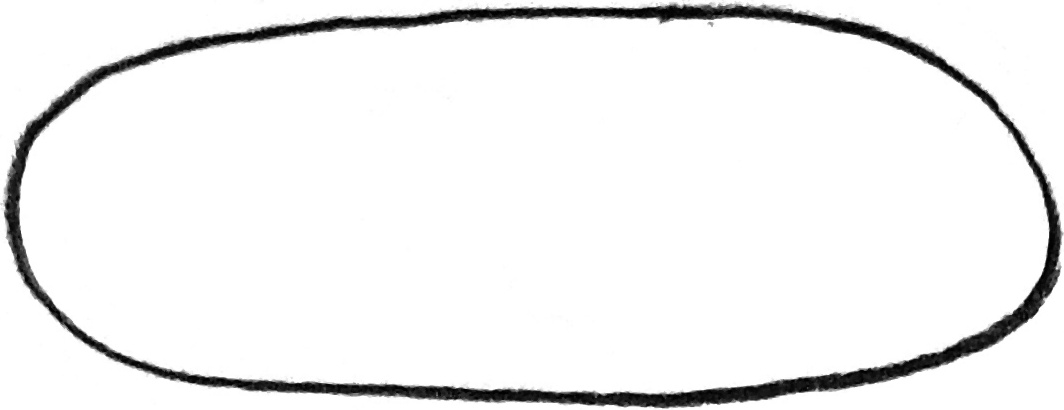
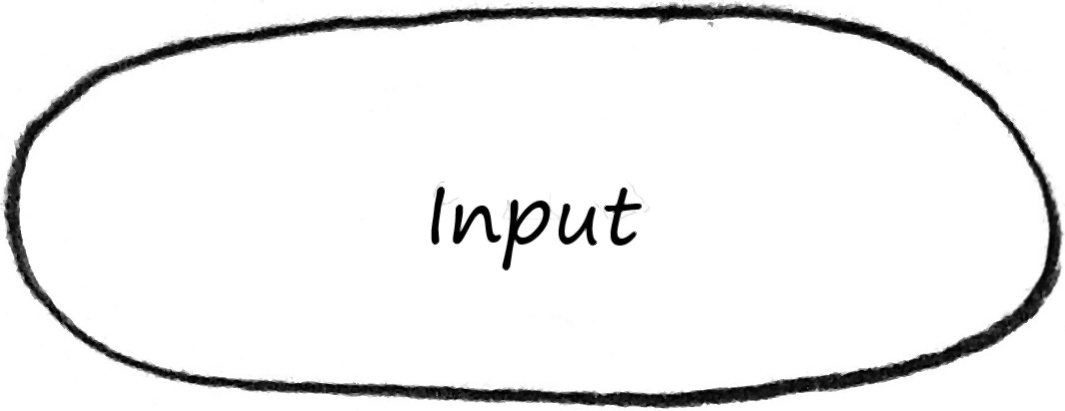
new commit

diff --git a/flowchart_written_detect.py b/flowchart_written_detect.py
@@ -1,0 +1,85 @@
+# -*- coding: utf-8 -*-
+"""
+Created on Sun Dec  8 18:34:19 2019
+
+@author: -
+"""
+import numpy as np
+from Utils import *
+from WordSegmentation import wordSegmentation, prepareImg
+import matplotlib.pyplot as plt
+import numpy as np
+import cv2
+from Preprocessor import preprocess
+from keras.models import model_from_json
+import shutil
+from keras import backend as K
+from keras.utils import plot_model
+from Spell import correction_list
+import json
+import time
+import sys
+from PIL import Image 
+def rudra(gd):
+    # Opens a image in RGB mode 
+    im = Image.open(gd) 
+  
+# Setting the points for cropped image 
+    width, height = im.size 
+    left = width/4
+    top = height/4
+    right = width-width/4
+    bottom = height-height/4
+  
+# Cropped image of above dimension 
+# (It will not change orginal image) 
+    im1 = im.crop((left, top, right, bottom)) 
+  
+# Shows the image in image viewer 
+    #im1.show() 
+    im1.save('temp.jpg')
+    gd='temp.jpg'
+	#l_model, l_model_predict = line_model()
+	#with open('line_model_predict.json', 'w') as f:
+	#	f.write(l_model_predict.to_json())
+    with open('Resource/line_model_predict.json', 'r') as f:
+        l_model_predict = model_from_json(f.read())
+    with open('Resource/word_model_predict.json', 'r') as f:
+        w_model_predict = model_from_json(f.read())
+	#plot_model(l_model_predict, to_file='line_model.png', show_shapes=True, show_layer_names=True)
+    w_model_predict.load_weights('Resource/iam_words--15--1.791.h5')
+    l_model_predict.load_weights('Resource/iam_lines--12--17.373.h5')
+    test_img = gd#############################
+	
+    img = prepareImg(cv2.imread(test_img), 64)
+    img2 = img.copy()
+    res = wordSegmentation(img, kernelSize=25, sigma=11, theta=7, minArea=100)
+    if not os.path.exists('tmp'):
+        os.mkdir('tmp')
+
+    for (j, w) in enumerate(res):
+        (wordBox, wordImg) = w
+        (x, y, w, h) = wordBox
+        cv2.imwrite('tmp/%d.png'%j, wordImg)
+        cv2.rectangle(img2,(x,y),(x+w,y+h),(0,255,0),1) # draw bounding box in summary image
+
+    cv2.imwrite('Resource/summary.png', img2)
+    plt.imshow(img2)
+    imgFiles = os.listdir('tmp')
+    imgFiles = sorted(imgFiles)
+    pred_line = []
+    for f in imgFiles:
+        pred_line.append(predict_image(w_model_predict, 'tmp/'+f, True))
+    print('-----------PREDICT-------------') 
+    text1 =' '.join(pred_line)
+    print('[Word model]: '+' ' + text1)
+
+    pred_line = correction_list(pred_line)
+    text2=' '.join(pred_line)
+    print('[Word model with spell]: '+ text2)
+
+    text3=	predict_image(l_model_predict, test_img, False)
+    print('[Line model]: ' + text3)
+    return text3
+#rudra('cropped.jpg')
+    

diff --git a/flowchart_generator.py b/flowchart_generator.py
@@ -10,10 +10,11 @@ import os
 import shutil
 from docx.shared import Inches
 from docx import Document
+from flowchart_written_detect import *
 document = Document()
 thickness = 10
 #to extract text from image
-def extract_text(image,imagename):#variable , name of file
+def extract_text(image,imagename,type1):#variable , name of file
     pytesseract.pytesseract.tesseract_cmd='C:\\Program Files\\Tesseract-OCR\\tesseract.exe'
 
     # load the image and convert it to grayscale
@@ -23,8 +24,11 @@ def extract_text(image,imagename):#variable , name of file
     # write the grayscale image to disk as a temporary file so we can apply OCR to it
     cv2.imwrite("ocr_gray.jpg", gray)
     # load the image as a PIL/Pillow image, apply OCR, and then delete the temporary file
-    text = pytesseract.image_to_string(Image.open(imagename))
+    #text = pytesseract.image_to_string(Image.open(imagename))
     #print(text)
+    if type1=='arrow':
+        return  ''
+    text=rudra('cropped.jpg')
     return text
 #for identifying shapes 
 class ShapeDetector:
@@ -219,8 +223,9 @@ def flowchart(image,outputname):
                 cropped = white2[y:y+h, x:x+w]           
     #            print(extract_text(cropped,'cropped.jpg'))
                 mark=0
-                cv2.putText(white, extract_text(cropped,'cropped.jpg'), (cX-int(w/4), cY), cv2.FONT_HERSHEY_SIMPLEX,2, (0, 0, 255), 3)
-                cv2.putText(white1, extract_text(cropped,'cropped.jpg'), (cX-int(w/4), cY), cv2.FONT_HERSHEY_SIMPLEX,2, (0, 0, 255), 3)
+                text=extract_text(cropped,'cropped.jpg',shape)
+                cv2.putText(white,text, (cX-int(w/4), cY), cv2.FONT_HERSHEY_SIMPLEX,2, (0, 0, 255), 3)
+                cv2.putText(white1,text, (cX-int(w/4), cY), cv2.FONT_HERSHEY_SIMPLEX,2, (0, 0, 255), 3)
                 cnt12=cnt12+1
                 if shape == "rectangle":
                     
